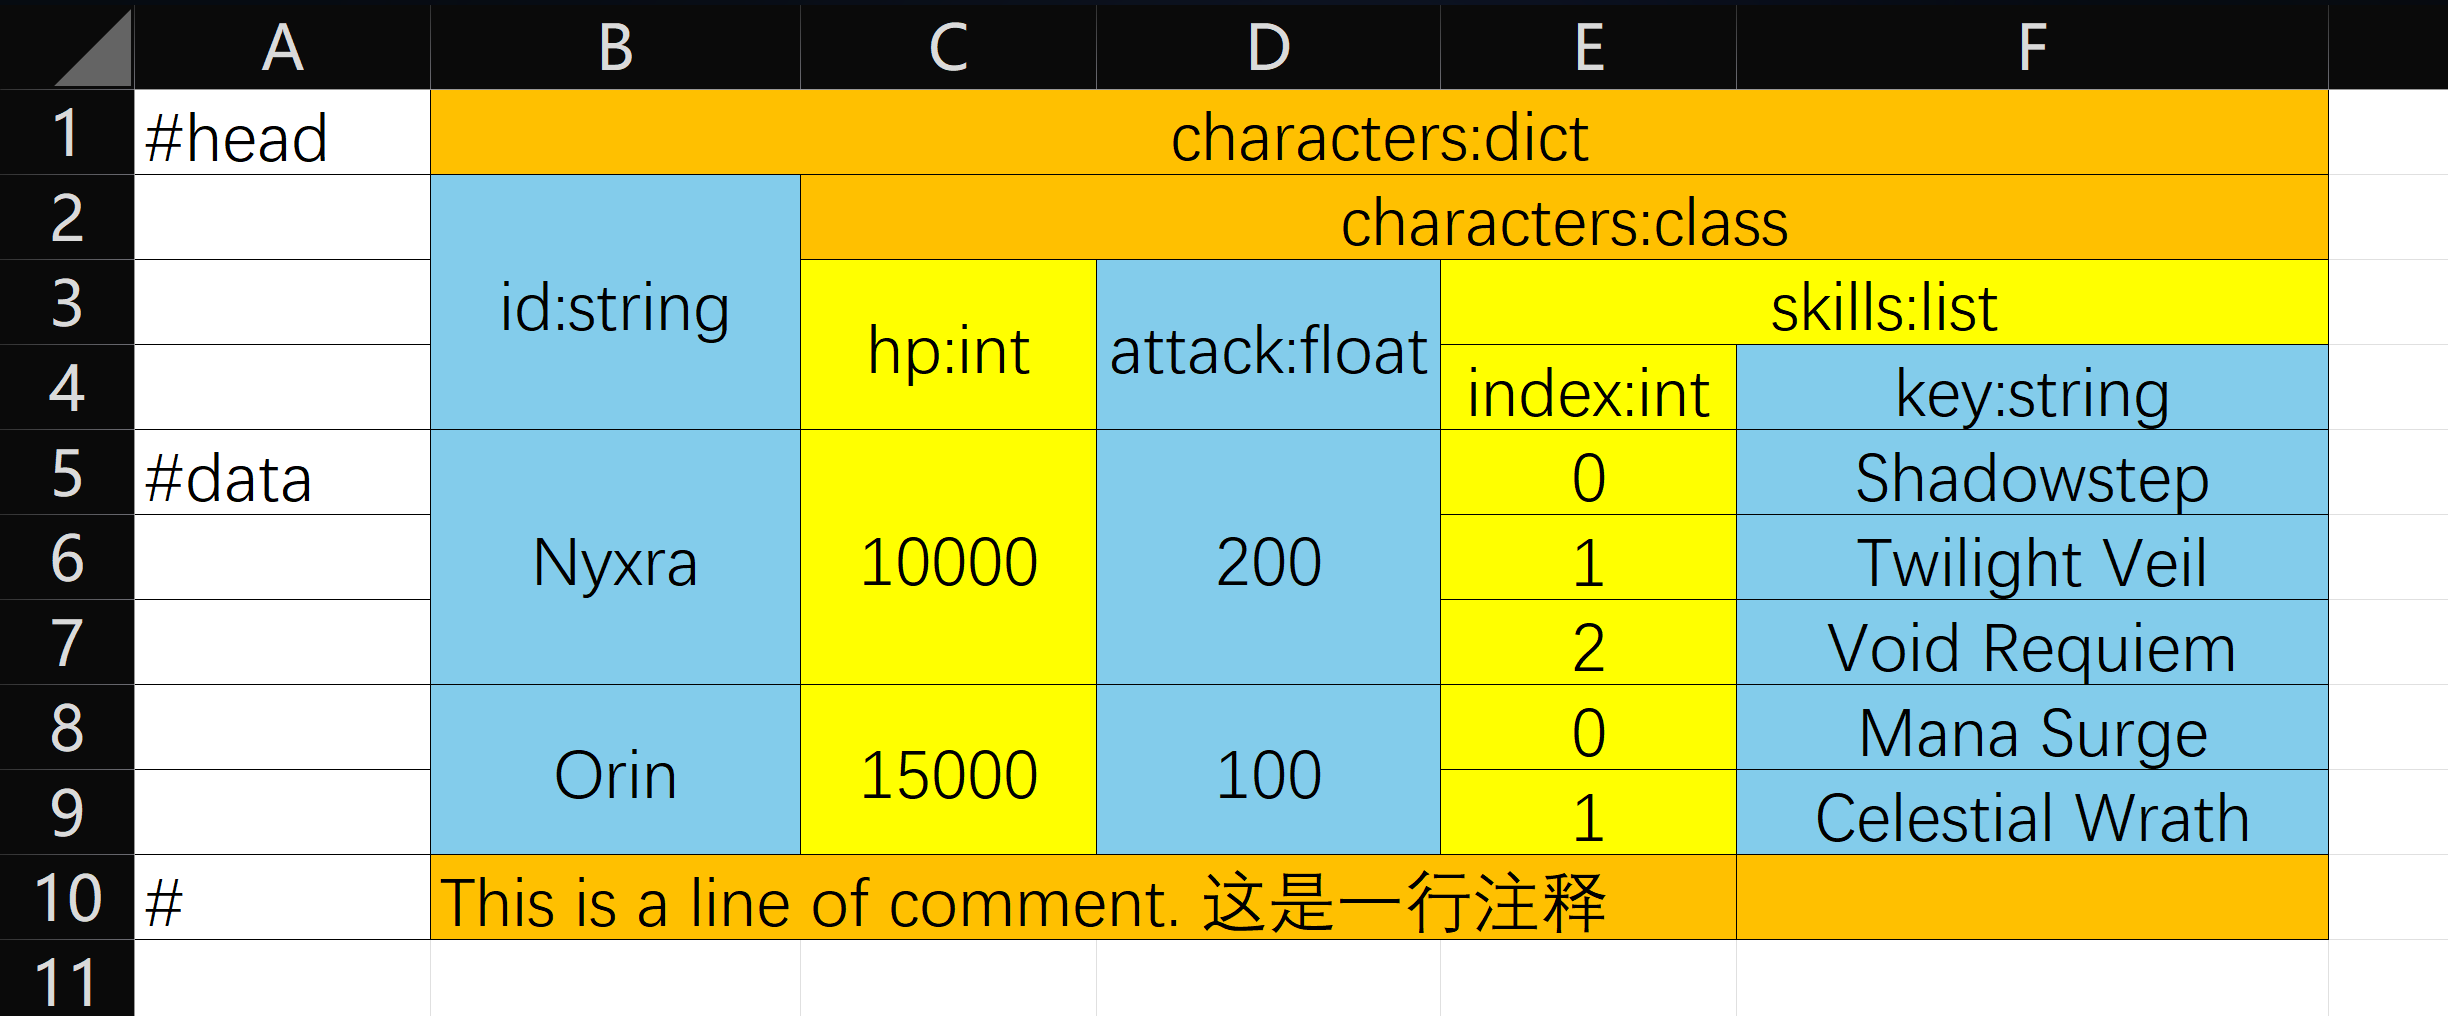
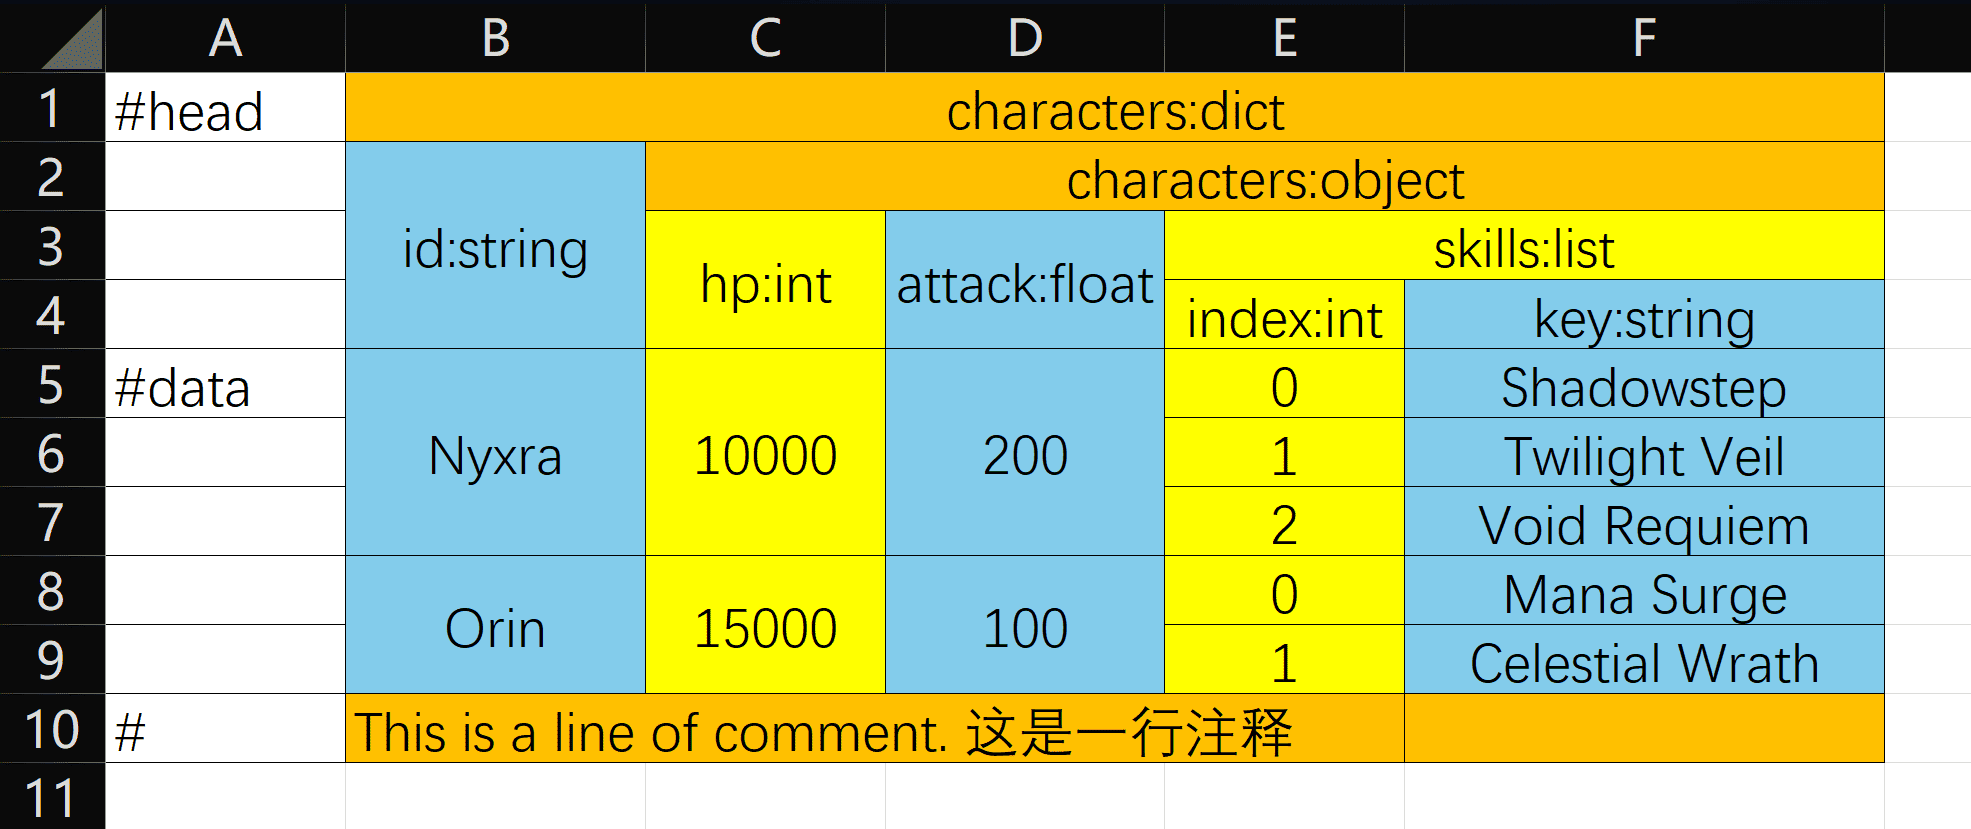
更新 README 中的图片的类型标识

diff --git a/README_EN.md b/README_EN.md
@@ -150,7 +150,7 @@ Excel files must follow this format:
 
 ### Example: Simple Table
 
-![Excel format example](https://github.com/iccues/stdem/blob/main/docs/image/example.png)
+![Excel format example](https://raw.githubusercontent.com/iccues/stdem/main/docs/image/example.png)
 
 Converts to:
 

diff --git a/README.md b/README.md
@@ -150,7 +150,7 @@ Excel 文件必须遵循以下格式：
 
 ### 示例：简单表格
 
-![Excel 示例表格](https://github.com/iccues/stdem/blob/main/docs/image/example.png)
+![Excel 示例表格](https://raw.githubusercontent.com/iccues/stdem/main/docs/image/example.png)
 
 转换为：
 
